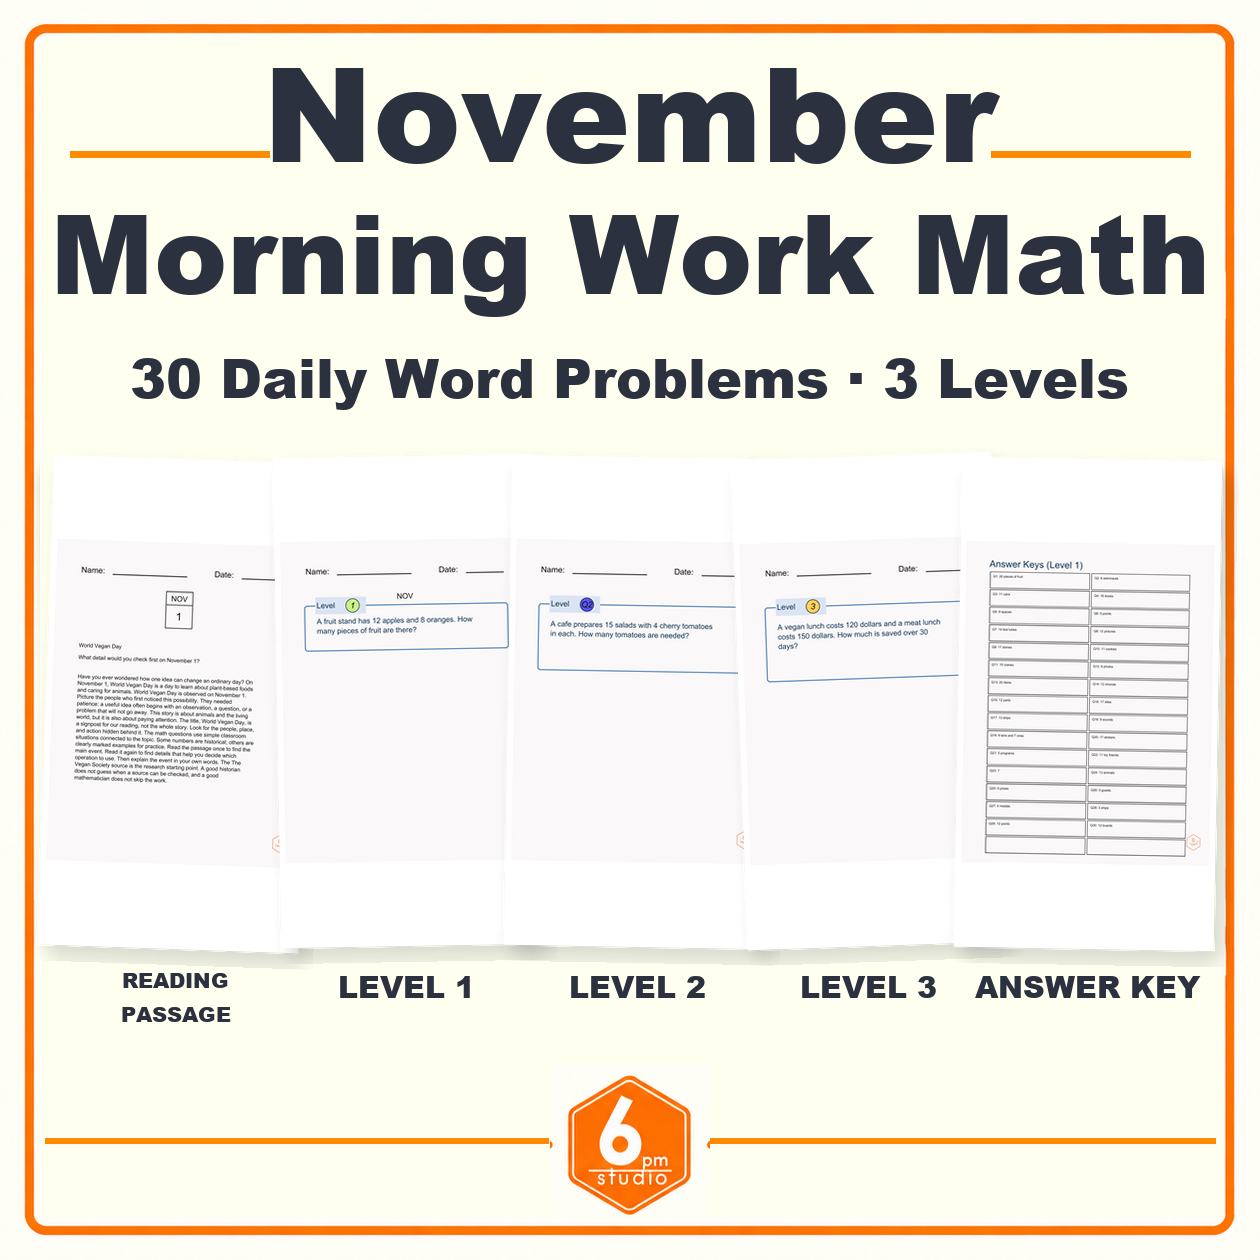
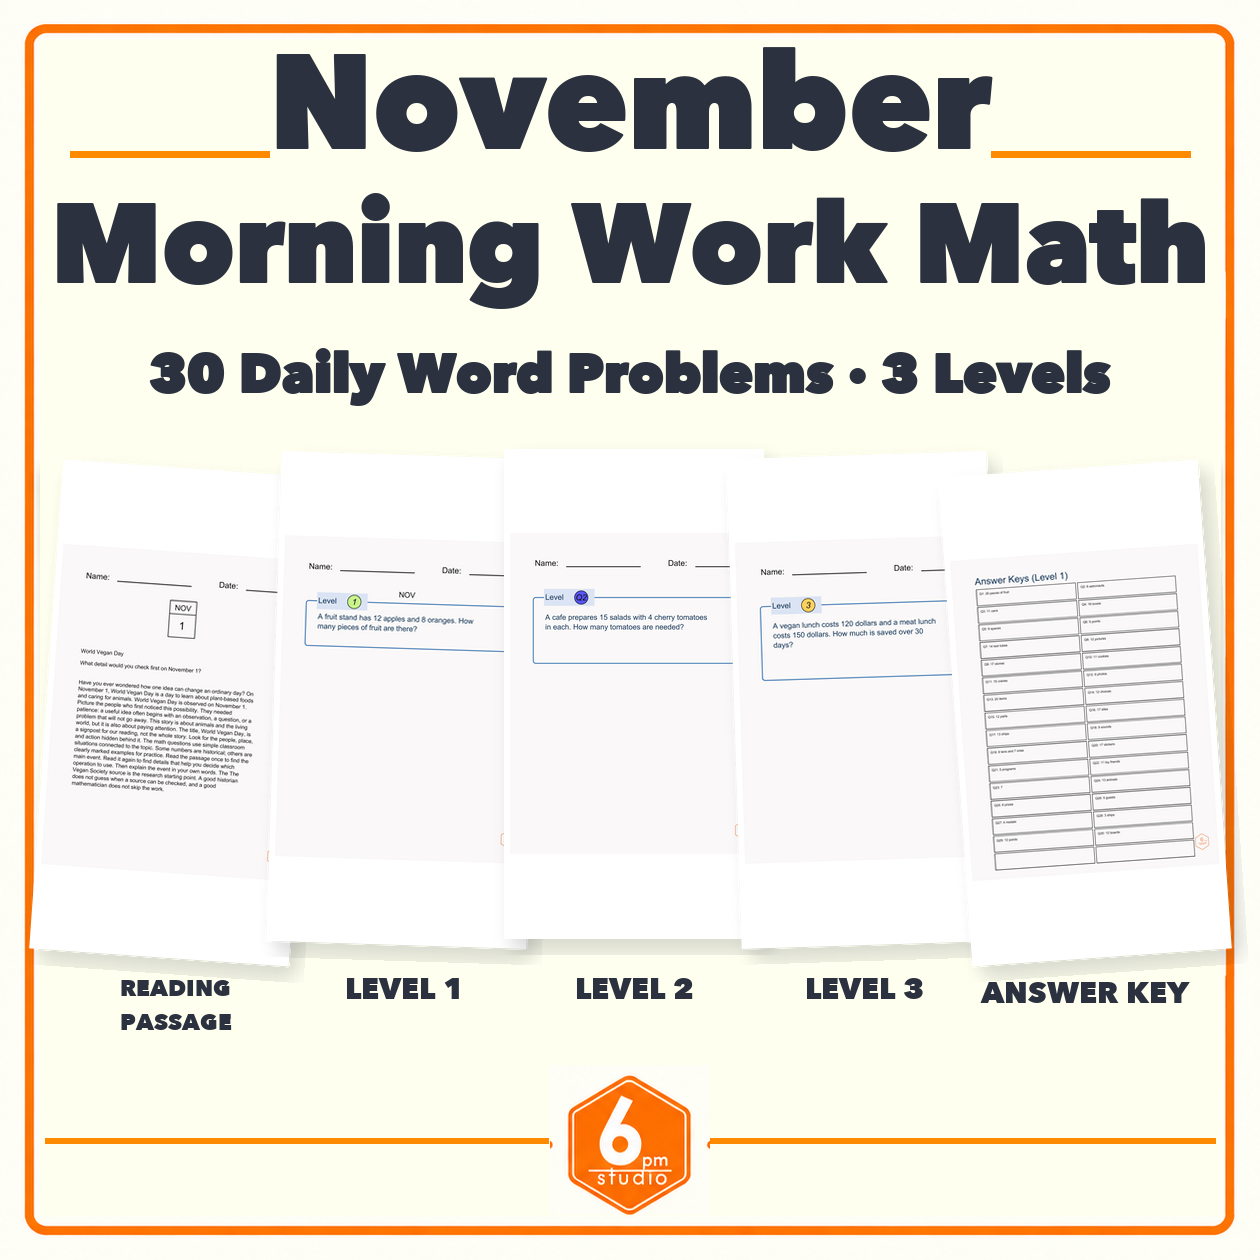
fix: regenerate November landing thumbnail to match reference

diff --git a/scripts/generate_monthly_thumbnails.py b/scripts/generate_monthly_thumbnails.py
@@ -18,12 +18,12 @@ SIZE = 1260
 
 def font(size: int, bold: bool = True):
     candidates = [
-        "/System/Library/Fonts/Supplemental/Arial Black.ttf" if bold else "/System/Library/Fonts/Supplemental/Arial.ttf",
-        "/System/Library/Fonts/Arial.ttf",
+        ("/System/Library/Fonts/Supplemental/Arial Black.ttf", 0) if bold else ("/System/Library/Fonts/Supplemental/Arial.ttf", 0),
+        ("/System/Library/Fonts/Arial.ttf", 0),
     ]
-    for candidate in candidates:
+    for candidate, index in candidates:
         if Path(candidate).exists():
-            return ImageFont.truetype(candidate, size)
+            return ImageFont.truetype(candidate, size, index=index)
     return ImageFont.load_default()
 
 
@@ -102,14 +102,40 @@ def centered(draw, text, y, size, max_width=1120, fill=NAVY, bold=True):
     draw.text((630, y), text, anchor="ma", fill=fill, font=fitted(text, max_width, size, bold))
 
 
+def landing_font(size: int, bold: bool = True):
+    """Use the locked reference display face for the landing-page asset only."""
+    candidates = [
+        ("/System/Library/Fonts/Avenir Next.ttc", 8) if bold else ("/System/Library/Fonts/Supplemental/Arial.ttf", 0),
+        ("/System/Library/Fonts/Supplemental/Arial Black.ttf", 0) if bold else ("/System/Library/Fonts/Supplemental/Arial.ttf", 0),
+    ]
+    for candidate, index in candidates:
+        if Path(candidate).exists():
+            return ImageFont.truetype(candidate, size, index=index)
+    return font(size, bold)
+
+
+def landing_fitted(text: str, width: int, size: int, bold: bool = True):
+    while size > 12:
+        f = landing_font(size, bold)
+        if ImageDraw.Draw(Image.new("RGB", (1, 1))).textbbox((0, 0), text, font=f)[2] <= width:
+            return f
+        size -= 1
+    return landing_font(12, bold)
+
+
+def landing_centered(draw, text, y, size, max_width=1120, fill=NAVY, bold=True):
+    f = landing_fitted(text, max_width, size, bold)
+    draw.text((630, y), text, anchor="ma", fill=fill, font=f, stroke_width=1 if bold else 0, stroke_fill=fill)
+
+
 def cover_font(size: int, bold: bool = True):
     candidates = [
-        "/System/Library/Fonts/Supplemental/Arial Black.ttf" if bold else "/System/Library/Fonts/Supplemental/Arial.ttf",
-        "/System/Library/Fonts/Arial.ttf",
+        ("/System/Library/Fonts/Supplemental/Arial Black.ttf", 0) if bold else ("/System/Library/Fonts/Supplemental/Arial.ttf", 0),
+        ("/System/Library/Fonts/Arial.ttf", 0),
     ]
-    for candidate in candidates:
+    for candidate, index in candidates:
         if Path(candidate).exists():
-            return ImageFont.truetype(candidate, size)
+            return ImageFont.truetype(candidate, size, index=index)
     return font(size, bold)
 
 
@@ -358,21 +384,24 @@ def compose_landing_page(month, day_count, pages, out):
     # The reference month sits in the upper title band; longer month names
     # are fitted without changing that band's vertical center.
     month_size = 150 if len(month) <= 7 else 132
-    centered(draw, month.title(), 16, month_size, 820)
+    landing_centered(draw, month.title(), 16, month_size, 820)
     draw.line((70, 154, 269, 154), fill=ORANGE, width=7)
     draw.line((991, 154, 1190, 154), fill=ORANGE, width=7)
-    centered(draw, "Morning Work Math", 172, 112, 1160)
-    centered(draw, f"{day_count} Daily Word Problems · 3 Levels", 338, 54, 1100, bold=True)
+    landing_centered(draw, "Morning Work Math", 172, 112, 1160)
+    landing_centered(draw, f"{day_count} Daily Word Problems · 3 Levels", 338, 54, 1100, bold=True)
 
     # Keep the complete header unobstructed: the canonical reference reserves
     # the upper third for the month/title/subtitle and starts the five-card
     # strip below it.
+    # The reference uses a shallow fan: the outside cards sit lower and turn
+    # outward, while the middle card is highest and nearly square to the
+    # canvas. Keep the windows portrait and overlap them in z-order.
     cards = [
-        ("reading_passage", 176, 704, 260, 490, -2.0, "READING\nPASSAGE"),
-        ("level1", 407, 701, 260, 490, 1.0, "LEVEL 1"),
-        ("level2", 638, 702, 260, 490, -1.0, "LEVEL 2"),
-        ("level3", 869, 701, 260, 490, 2.0, "LEVEL 3"),
-        ("answer_key", 1088, 704, 260, 490, -1.0, "ANSWER KEY"),
+        ("reading_passage", 176, 713, 260, 490, -4.0, "READING\nPASSAGE"),
+        ("level1", 404, 700, 260, 490, -1.8, "LEVEL 1"),
+        ("level2", 634, 694, 260, 490, 0.0, "LEVEL 2"),
+        ("level3", 864, 700, 260, 490, 1.8, "LEVEL 3"),
+        ("answer_key", 1085, 713, 260, 490, 4.0, "ANSWER KEY"),
     ]
     for key, cx, cy, width, height, angle, label in cards:
         worksheet = Image.new("RGBA", (width + 32, height + 32), (0, 0, 0, 0))
@@ -380,9 +409,16 @@ def compose_landing_page(month, day_count, pages, out):
         worksheet = worksheet.rotate(angle, resample=Image.Resampling.BICUBIC, expand=True)
         canvas.alpha_composite(worksheet, (cx - worksheet.width // 2, cy - worksheet.height // 2))
         label_lines = label.split("\n")
-        label_font = fitted(label.replace("\n", " "), 232, 30)
+        label_font = landing_fitted(label.replace("\n", " "), 232, 30)
+        label_y = 973 if key in {"reading_passage", "answer_key"} else 969
         for index, line in enumerate(label_lines):
-            draw.text((cx, 964 + index * 34), line, anchor="ma", fill=NAVY, font=label_font)
+            draw.text(
+                (cx, label_y + index * 34),
+                line,
+                anchor="ma",
+                fill=NAVY,
+                font=label_font,
+            )
     draw = ImageDraw.Draw(canvas)
     draw.line((45, 1140, 548, 1140), fill=ORANGE, width=6)
     draw.line((708, 1140, 1215, 1140), fill=ORANGE, width=6)

diff --git a/docs/monthly-thumbnail-prompts.md b/docs/monthly-thumbnail-prompts.md
@@ -221,7 +221,10 @@ Preserve the fixed reference geometry exactly:
 - warm ivory background, orange rounded frame, and bottom divider lines;
 - deep-navy geometric sans-serif typography and its hierarchy;
 - large month title, large MORNING WORK MATH title, and smaller day-count line;
-- five slightly rotated white worksheet cards with soft shadows, in one row;
+- five white worksheet cards with soft shadows in a visible shallow fan: the
+  outside cards sit lower and rotate outward, the middle card sits highest,
+  and adjacent cards overlap in z-order; never render them as a flat row or
+  uniform grid;
 - card order: READING PASSAGE, LEVEL 1, LEVEL 2, LEVEL 3, ANSWER KEY;
 - label positions, card proportions, overlap order, footer spacing, and the
   outlined 6 pm studio logo.
@@ -252,7 +255,10 @@ these fixed regions aligned to the October reference:
   centered placement. Only the day count changes from 31 to 30.
 - Worksheet strip: preserve the five-card order and the reference card
   rectangles, aspect ratio, rotations, z-order, overlap, top/bottom bounds,
-  and soft shadow offsets. The cards must not become a uniform flat grid.
+  and soft shadow offsets. The silhouette must visibly fan: use approximately
+  -4°, -2°, 0°, +2°, +4° rotations with the outer cards lower than the middle
+  card, while keeping the 260×490 portrait windows unchanged. The cards must
+  not become a uniform flat grid.
 - Card previews: use the real November PDF pages, cropped/scaled into the
   reference card windows without changing the card geometry. Do not let page
   content determine card size or push cards vertically.
@@ -262,6 +268,12 @@ these fixed regions aligned to the October reference:
 - Footer: preserve both orange rules, their y-position and endpoints, and the
   complete outlined `6 pm studio` logo at the reference center. Do not replace
   it with a simplified solid hexagon or a logo with a white rectangular crop.
+- Typography: use the same heavy geometric display treatment as the reference
+  for the month, product title, subtitle, and labels. On the production host,
+  lock `Avenir Next Heavy` (or the exact approved reference font asset) for
+  the bold display hierarchy. Do not fall back to generic Arial Black, Arial
+  Rounded, or a light sans-serif substitute; verify the headline silhouette
+  against the fixture.
 
 The visual QA must compare fixed regions independently: frame/background,
 month/title bands, subtitle, card silhouettes/shadows/overlap, labels, and
@@ -277,7 +289,7 @@ Replace only month-specific content:
 - the five worksheet previews, which must be cropped or scaled from the final
   verified monthly PDF and never invented or rewritten.
 
-The November output must read:
+The November output must read (using the reference's centered dot separator):
 November
 Morning Work Math
 30 Daily Word Problems · 3 Levels
